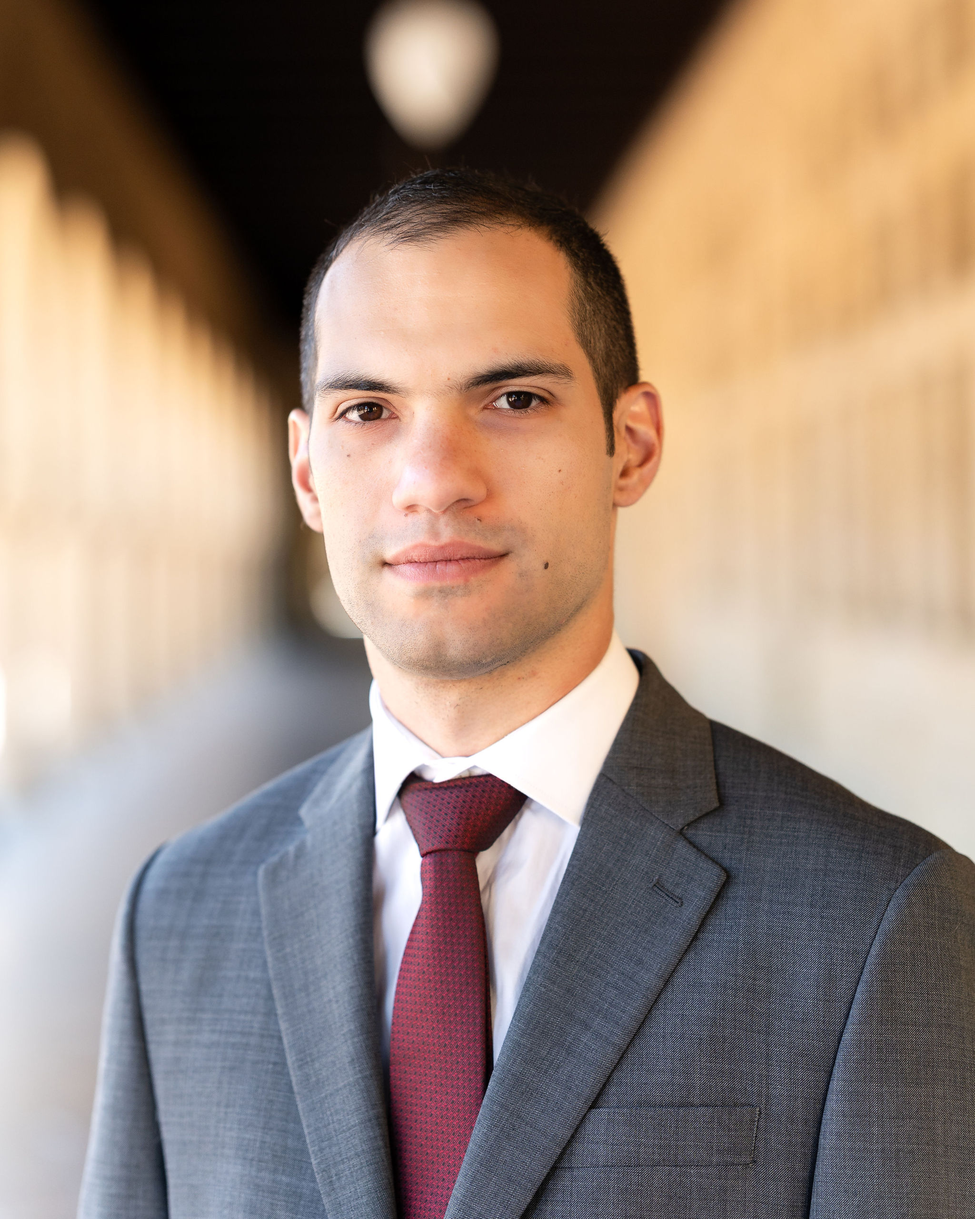
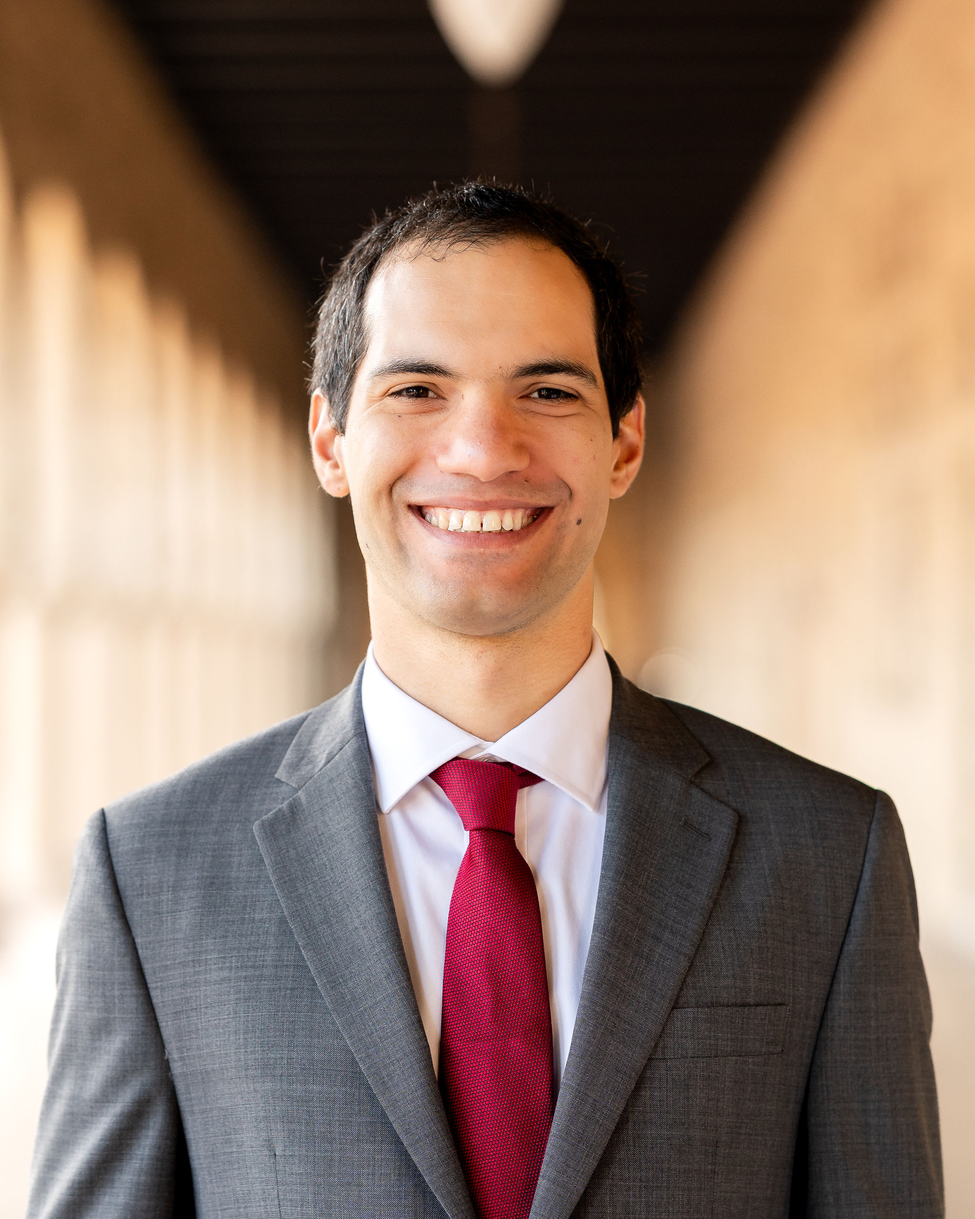
happier picture

diff --git a/index.html b/index.html
@@ -184,9 +184,9 @@
                     <p>Here is my <a href="assets/cv/CV_20aug2025.pdf" class="red-link">CV</a></p>
                     <p>You can reach me at <a href="mailto:chittaro@stanford.edu" class="red-link">chittaro@stanford.edu</a></p>
                     <p><strong>Committee members</strong><br>
-                    Martin Schneider: <a href="mailto:schneidr@stanford.edu" class="red-link">schneidr@stanford.edu</a><br>
-                    Monika Piazzesi: <a href="mailto:piazzesi@stanford.edu" class="red-link">piazzesi@stanford.edu</a><br>
-                    Shoshana Vasserman: <a href="mailto:svass@stanford.edu" class="red-link">svass@stanford.edu</a>
+                    <a href="https://web.stanford.edu/~schneidr/">Martin Schneider:</a> <a href="mailto:schneidr@stanford.edu" class="red-link">schneidr@stanford.edu</a><br>
+                    <a href="https://web.stanford.edu/~piazzesi/">Monika Piazzesi:</a> <a href="mailto:piazzesi@stanford.edu" class="red-link">piazzesi@stanford.edu</a><br>
+                    <a href="https://shoshanavasserman.com/">Shoshana Vasserman:</a> <a href="mailto:svass@stanford.edu" class="red-link">svass@stanford.edu</a>
                 </p>
                 </div>
             </div>
@@ -228,7 +228,7 @@
                     <li>
                         <span style="text-decoration: underline;">The Cost of Port Disruptions: evidence from U.S. Containerized Trade</span><br>
                         <em>with <a href="https://stephenredding.github.io/index.html">Stephen Redding</a>, <a href="https://www.janetstefanov.com">Janet Stefanov</a>, and <a href="https://shoshanavasserman.com/">Shoshana Vasserman</a></em><br>
-                        <p>Using ships GPS data matched with bill of ladings to estimate the cost of port disruptions</p>
+                        <p>We match containership GPS data with import bill of ladings to estimate port substitution and the cost of port disruptions</p>
                     </li>
                 </ul>
             </div>
@@ -240,7 +240,6 @@
                         <strong class="paper-title"><a href="https://latinaer.org/index.php/laer/article/view/38">From bad to worse: The economic impact of Covid-19 in developing countries. Evidence from Venezuela.</a></strong><br>
                         <em>with <a href="https://www.germancaruso.com">Germán Caruso</a>, María Emilia Cucagna, and Luis Pedro España</em><br>
                         Latin American Economic Review, 30(1), 1-22, 2021<br>
-                        [<a href="https://latinaer.org/index.php/laer/article/view/38">Paper</a>]
                         <p>Policy responses to COVID-19 affected the dynamic of economic growth and labor markets worldwide, hitting economically harder on developing countries. These policies involved economic lockdowns that included the shutdown of the main statistical exercises, making it almost impossible to assess the breadth and variety of their effects. Using a phone survey, this paper examines the impact of the quarantine implemented in Venezuela on labor market outcomes. The identification strategy exploits the exogenous variation in the severity of the lockdown in different regions of the country. The main result indicates a 16.5 percentage points reduction in employment, while in regions with severe lockdowns the reduction has been 13.8 p.p. larger. In particular, the self-employed and informally employed were hard hit by the lockdown. To cope with this effect, households sold their productive assets, reduced their savings, sought for alternative income sources and looked for help from relatives. This paper does not find a differential effect on the number of COVID-19 cases in more severe lockdown settings. Results are robust to endogenous migration and alternative specifications.</p>
                     </li>
                 </ul>
